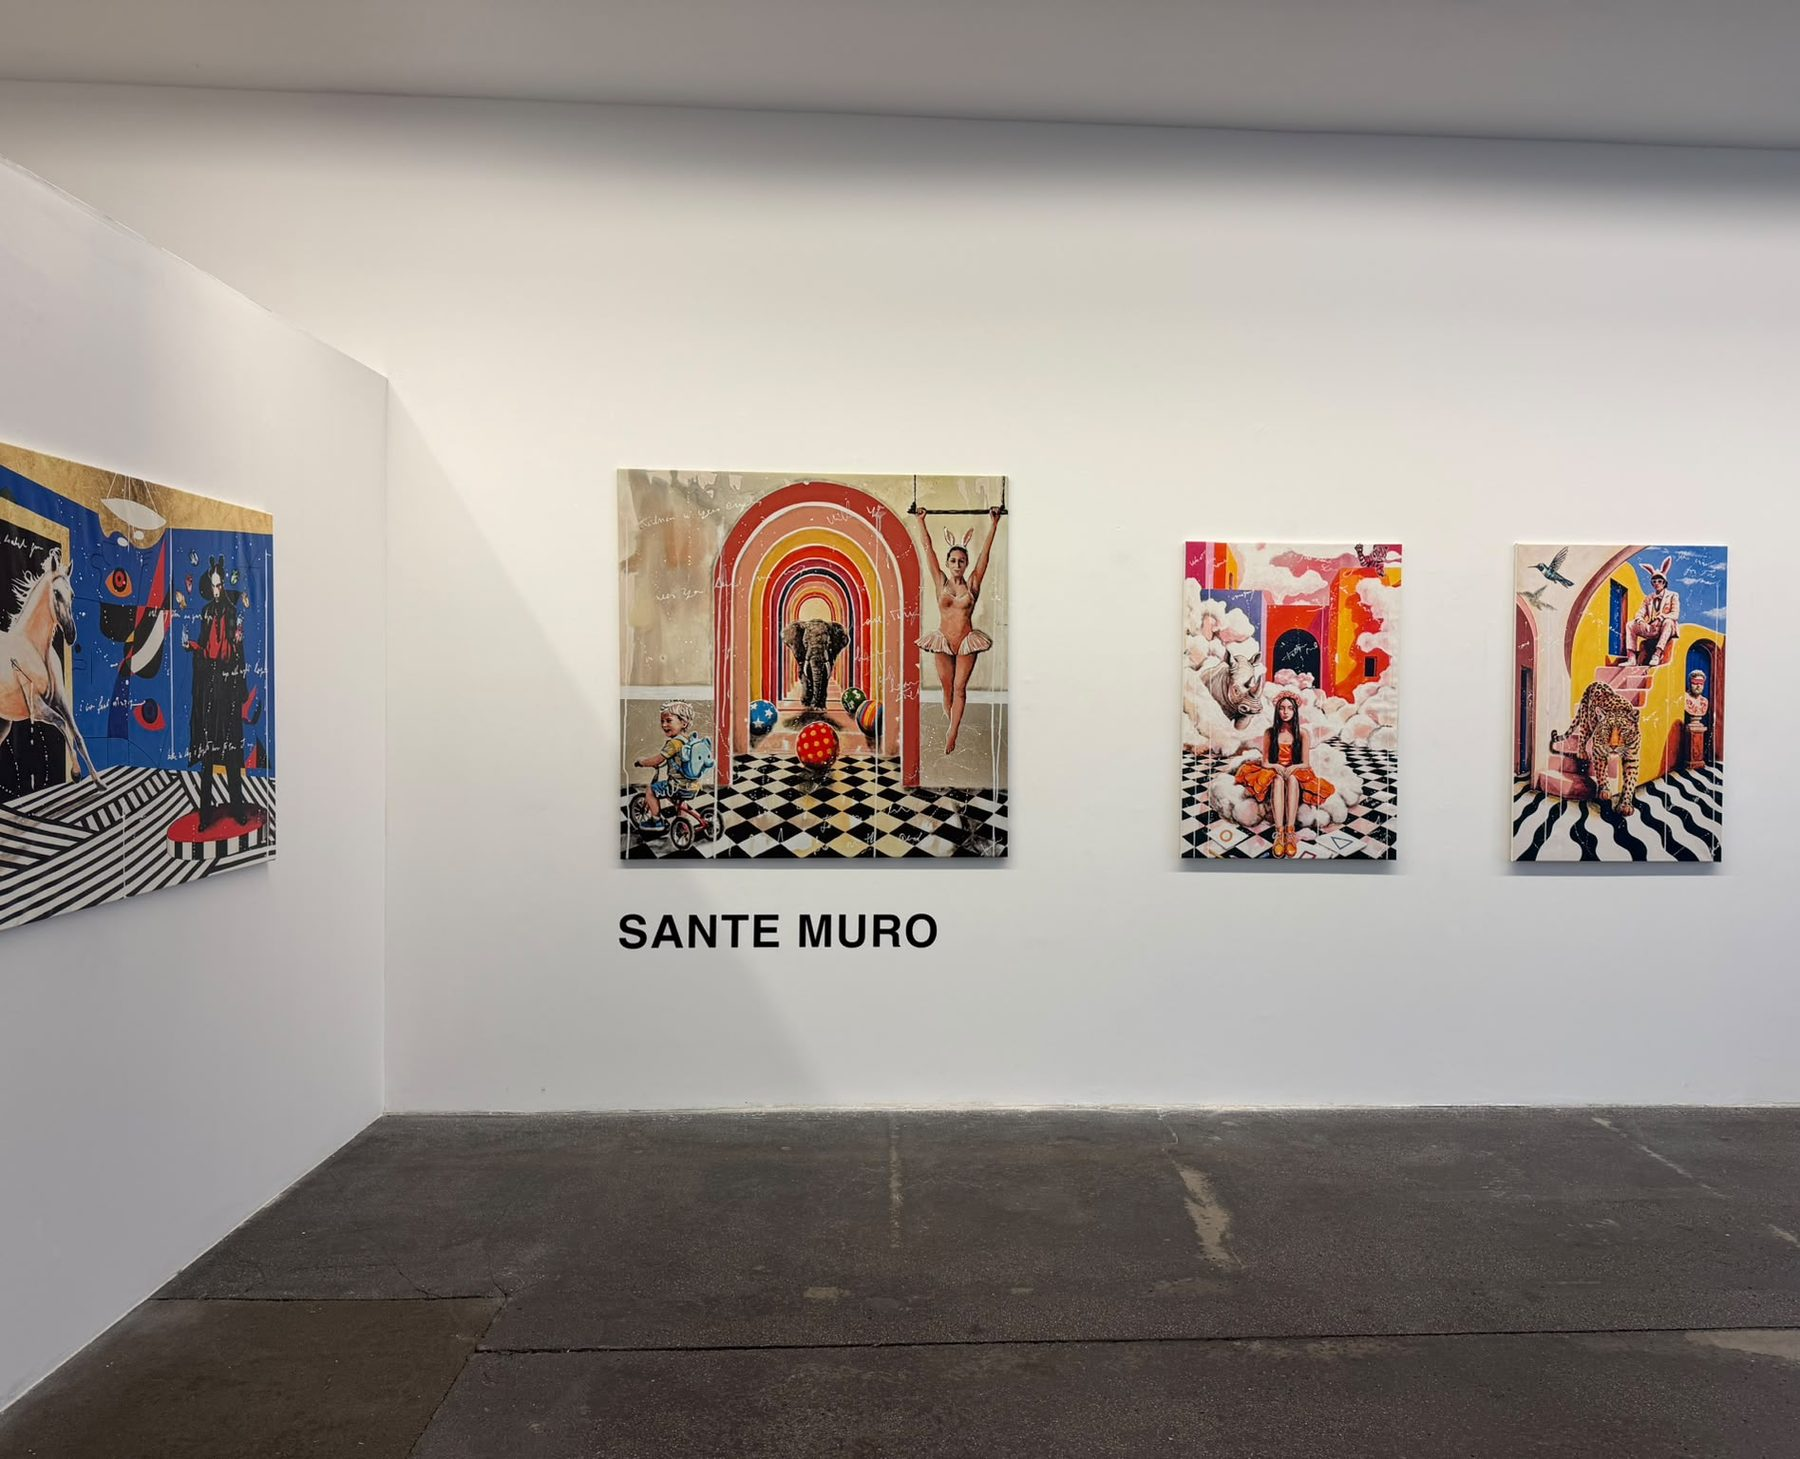
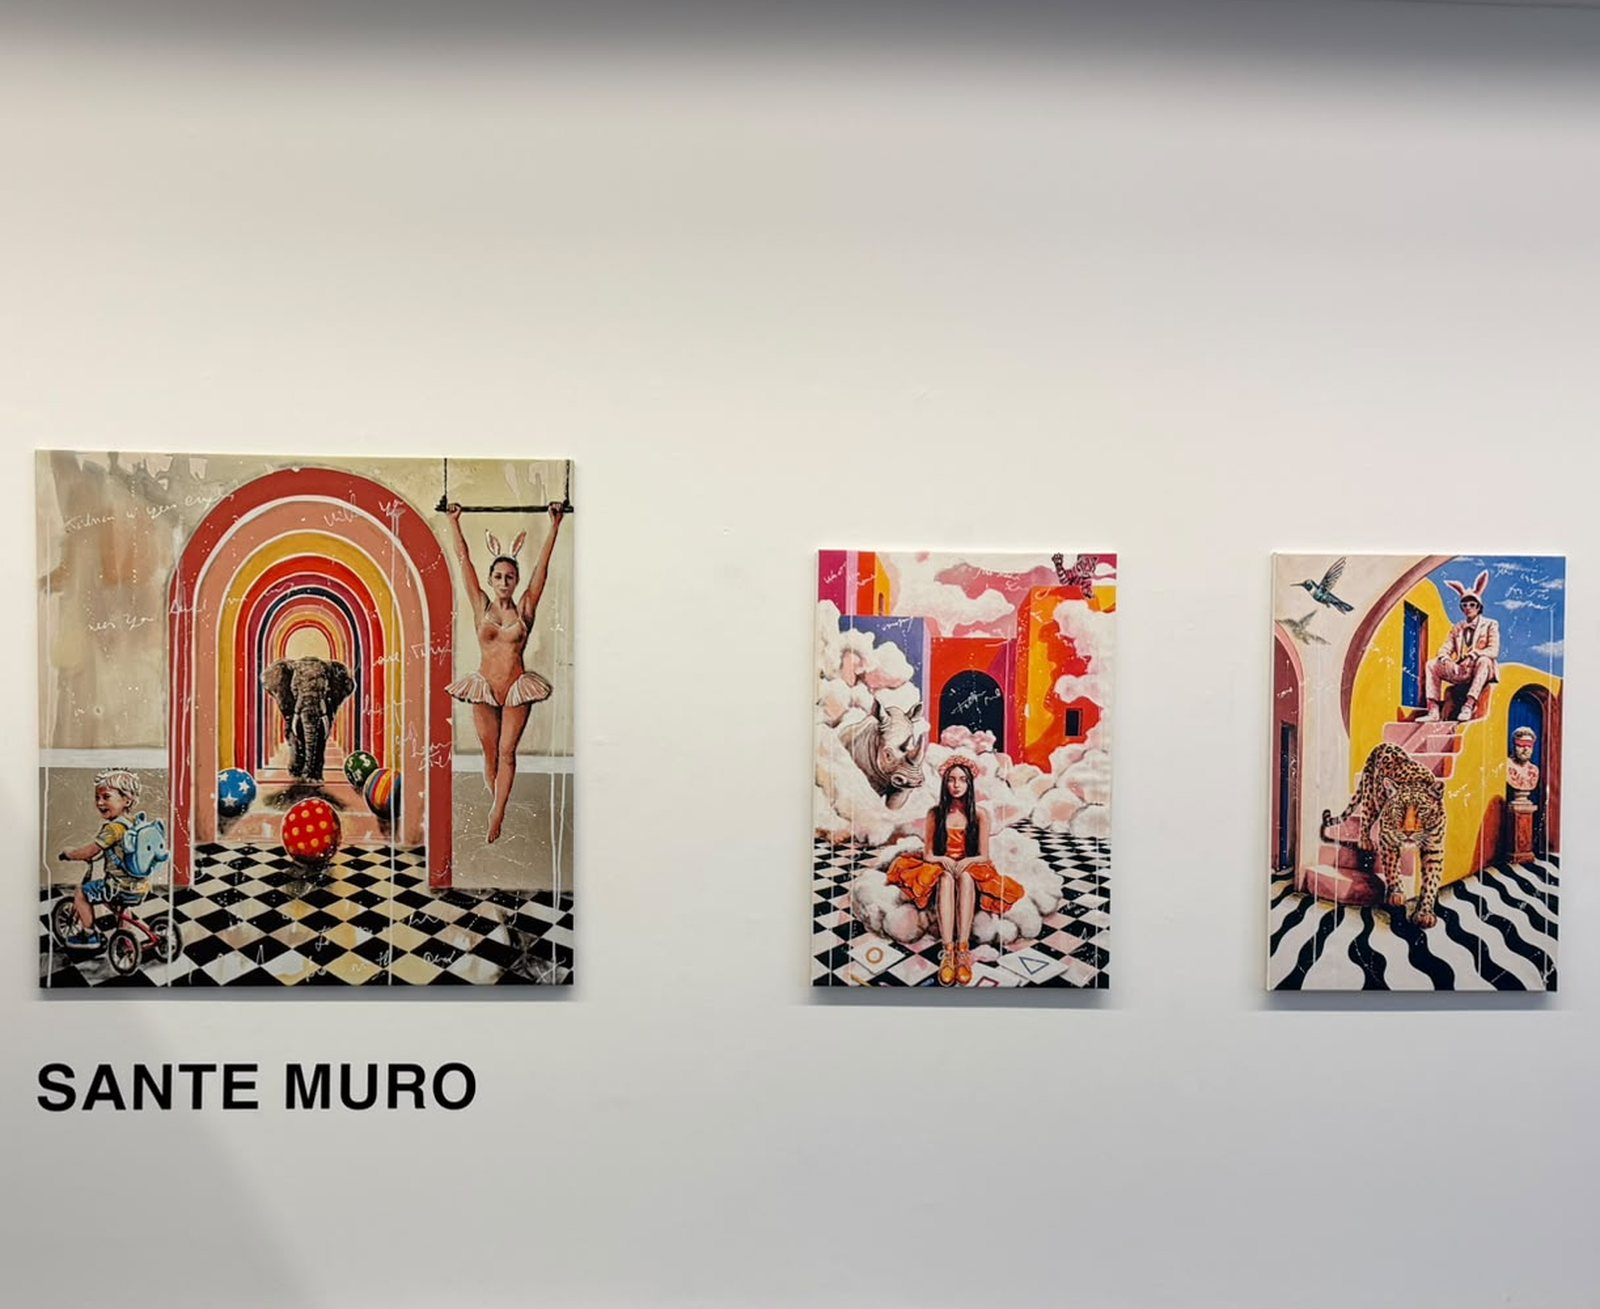
Tighter crop of exhibition photo: three paintings, no floor
Claude-Session: https://claude.ai/code/session_011kthtv8KCr5b9pfbN4ot55

diff --git a/index.html b/index.html
@@ -8,7 +8,7 @@
 <meta name="theme-color" content="#0e0e0e">
 <link rel="preload" href="assets/fonts/d-din-pro-400.woff2" as="font" type="font/woff2" crossorigin>
 <link rel="preload" href="assets/fonts/d-din-pro-700.woff2" as="font" type="font/woff2" crossorigin>
-<link rel="stylesheet" href="assets/css/style.css?v=202610240055">
+<link rel="stylesheet" href="assets/css/style.css?v=202610240057">
 <script>document.documentElement.classList.add("js");</script>
 </head>
 <body>
@@ -43,7 +43,7 @@
 
       <div class="pair">
         <!-- Replace the placeholder text with: <img src="assets/img/exhibitions/xxx.jpg" alt="..."> -->
-        <figure class="ph ph--wide reveal" style="margin:0"><img src="assets/img/exhibitions/beyond-the-frame-01.jpg" alt="Beyond the Frame: paintings by Sante Muro at Artspace87" width="1800" height="1459"></figure>
+        <figure class="ph ph--wide reveal" style="margin:0"><img src="assets/img/exhibitions/beyond-the-frame-01.jpg?v=2" alt="Beyond the Frame: paintings by Sante Muro at Artspace87" width="1600" height="1309"></figure>
         <figure class="ph ph--tall reveal" style="margin:0">[Portrait: Sante Muro]</figure>
       </div>
 
@@ -132,6 +132,6 @@
   </div>
 </footer>
 
-<script src="assets/js/main.js?v=202610240055"></script>
+<script src="assets/js/main.js?v=202610240057"></script>
 </body>
 </html>

diff --git a/archive.html b/archive.html
@@ -8,7 +8,7 @@
 <meta name="theme-color" content="#0e0e0e">
 <link rel="preload" href="assets/fonts/d-din-pro-400.woff2" as="font" type="font/woff2" crossorigin>
 <link rel="preload" href="assets/fonts/d-din-pro-700.woff2" as="font" type="font/woff2" crossorigin>
-<link rel="stylesheet" href="assets/css/style.css?v=202610240055">
+<link rel="stylesheet" href="assets/css/style.css?v=202610240057">
 <script>document.documentElement.classList.add("js");</script>
 </head>
 <body>
@@ -49,7 +49,7 @@
       <div class="cards">
         <article class="card reveal">
           <a href="index.html#current" style="display:block">
-            <div class="ph"><img loading="lazy" src="assets/img/exhibitions/beyond-the-frame-01.jpg" alt="Beyond the Frame: paintings by Sante Muro at Artspace87" width="1800" height="1459"></div>
+            <div class="ph"><img loading="lazy" src="assets/img/exhibitions/beyond-the-frame-01.jpg?v=2" alt="Beyond the Frame: paintings by Sante Muro at Artspace87" width="1600" height="1309"></div>
             <h3>Beyond the Frame</h3>
           </a>
           <p>Sante Muro</p>
@@ -67,6 +67,6 @@
   </div>
 </footer>
 
-<script src="assets/js/main.js?v=202610240055"></script>
+<script src="assets/js/main.js?v=202610240057"></script>
 </body>
 </html>

diff --git a/about.html b/about.html
@@ -8,7 +8,7 @@
 <meta name="theme-color" content="#0e0e0e">
 <link rel="preload" href="assets/fonts/d-din-pro-400.woff2" as="font" type="font/woff2" crossorigin>
 <link rel="preload" href="assets/fonts/d-din-pro-700.woff2" as="font" type="font/woff2" crossorigin>
-<link rel="stylesheet" href="assets/css/style.css?v=202610240055">
+<link rel="stylesheet" href="assets/css/style.css?v=202610240057">
 <script>document.documentElement.classList.add("js");</script>
 </head>
 <body>
@@ -71,6 +71,6 @@
   </div>
 </footer>
 
-<script src="assets/js/main.js?v=202610240055"></script>
+<script src="assets/js/main.js?v=202610240057"></script>
 </body>
 </html>
